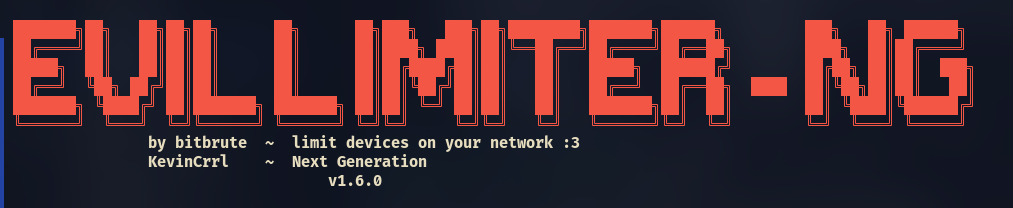
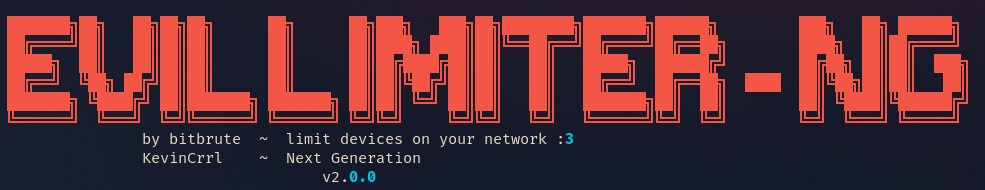
Fix description and README

Changed region(s): [[0.0, 0.0789, 1.0, 1.0]]

diff --git a/evillimiter_ng/__init__.py b/evillimiter_ng/__init__.py
@@ -1,2 +1,2 @@
 __version__ = '2.0.0'
-__description__ = 'Monitors, analyzes and limits the bandwidth of devices on the local network'
+__description__ = 'Monitors, analyzes and limits the bandwidth of devices on the local network (Next Generation).'

diff --git a/README.md b/README.md
@@ -69,5 +69,5 @@ python -m installer dist/*.whl
 
 Copyright (c) 2019 by [bitbrute](https://github.com/bitbrute). 
 
-Copyright (c) 2026 by [KevinCrrl](https://github.com/KevinCrrl). Some rights reserved.<br>
+Copyright (c) 2026 by [KevinCrrl](https://github.com/KevinCrrl). Some rights reserved.
 [Evil Limiter Next Generation](https://github.com/KevinCrrl/evillimiter-ng) is licensed under the MIT License as stated in the [LICENSE file](LICENSE).
